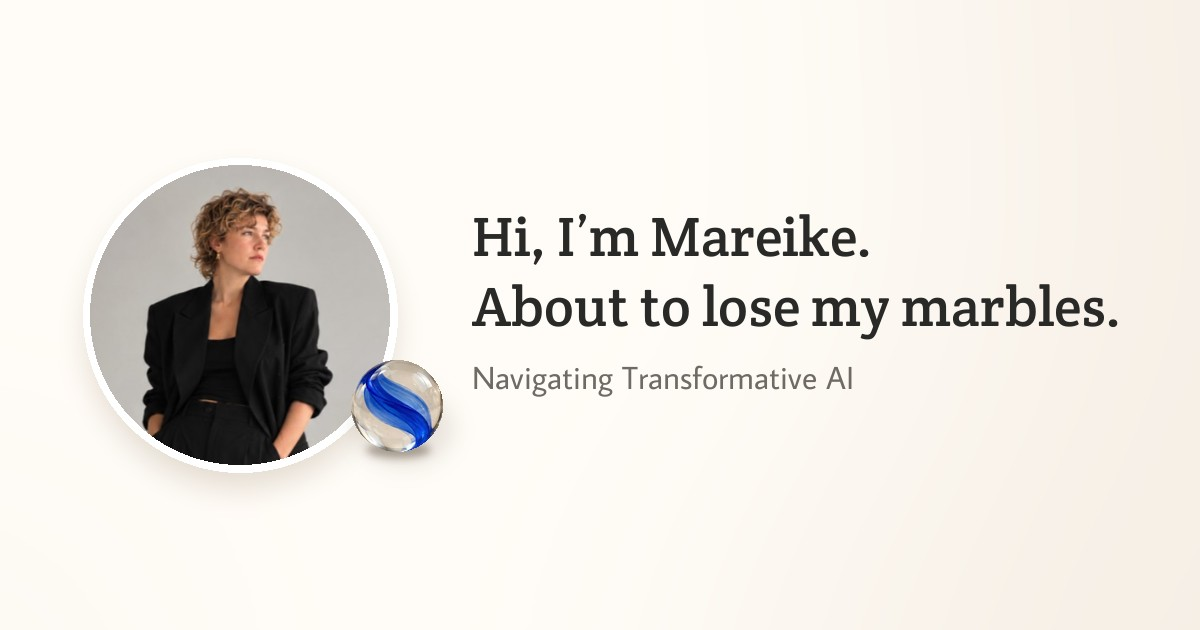
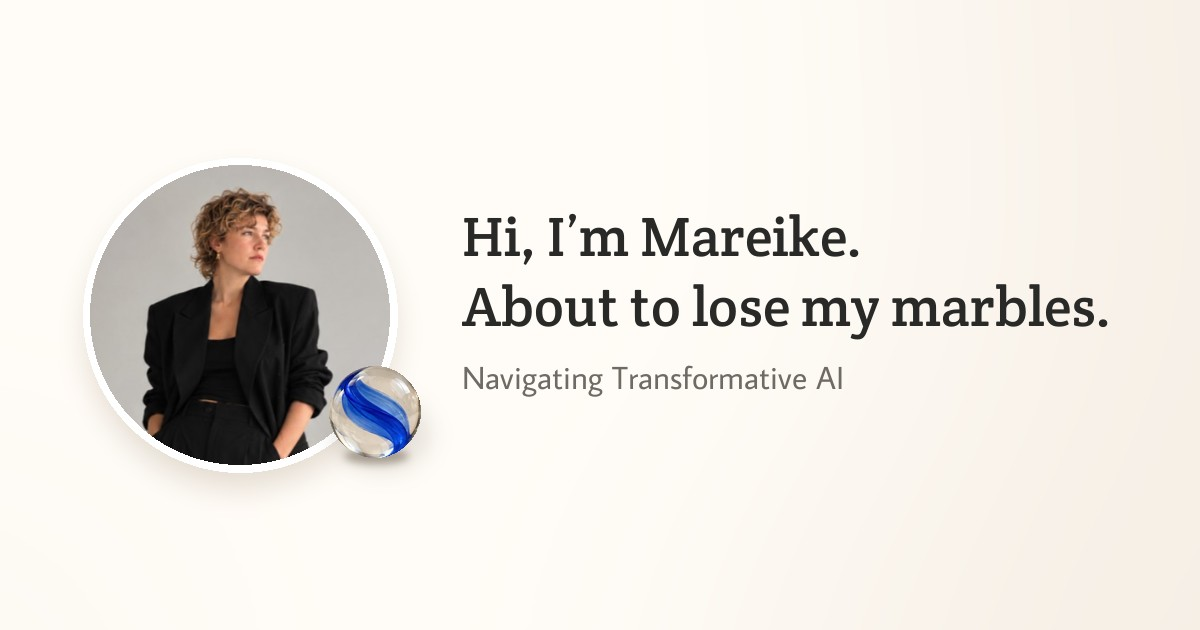
Link preview picture: marble overlaps the portrait more

Changed region(s): [[0.37, 0.4524, 0.925, 0.5429], [0.2775, 0.573, 0.7092, 0.754], [0.37, 0.3317, 0.74, 0.4222]]

diff --git a/index.html b/index.html
@@ -1,1 +1,1 @@
-<!doctype html><html lang="en"><head><meta charset="utf-8"><meta name="viewport" content="width=device-width, initial-scale=1"><meta name="theme-color" content="#faf8f5"><title>Mareike Jens · Navigating Transformative AI</title><meta name="description" content="About to lose my marbles. Pick the ideas you’d like to discuss with me over coffee."><meta property="og:type" content="website"><meta property="og:url" content="https://mareikejens.com/"><meta property="og:site_name" content="Mareike Jens"><meta property="og:title" content="Mareike Jens · Navigating Transformative AI"><meta property="og:description" content="About to lose my marbles. Pick the ideas you’d like to discuss with me over coffee."><meta property="og:image" content="https://mareikejens.com/assets/og-image.jpg?v=5"><meta property="og:image:width" content="1200"><meta property="og:image:height" content="630"><meta property="og:image:alt" content="Mareike Jens: Hi, I’m Mareike. About to lose my marbles."><meta name="twitter:card" content="summary_large_image"><meta name="twitter:image" content="https://mareikejens.com/assets/og-image.jpg?v=5"><link rel="icon" href="/favicon.ico"><link rel="apple-touch-icon" href="/apple-touch-icon.png"><link rel="stylesheet" href="style.css"><link rel="stylesheet" href="play.css"><script defer src="content.js"></script><script defer src="explosion.js"></script><script defer src="motion.js"></script><script defer src="vendor/matter.min.js"></script><script defer src="track.js"></script><script defer src="jar.js"></script><script defer src="play.js"></script><script defer src="app.js"></script></head><body class="cover"><header class="mast"><button class="face" type="button" data-about><img src="assets/mareike.jpg" alt="Mareike Jens"></button><button class="mast-title" type="button" data-about><span id="siteTitle"></span></button><nav class="mast-tools" id="mastTools"></nav></header><main id="app"></main><dialog id="sheet"><button class="x"></button><section id="detail"></section></dialog></body></html>
+<!doctype html><html lang="en"><head><meta charset="utf-8"><meta name="viewport" content="width=device-width, initial-scale=1"><meta name="theme-color" content="#faf8f5"><title>Mareike Jens · Navigating Transformative AI</title><meta name="description" content="About to lose my marbles. Pick the ideas you’d like to discuss with me over coffee."><meta property="og:type" content="website"><meta property="og:url" content="https://mareikejens.com/"><meta property="og:site_name" content="Mareike Jens"><meta property="og:title" content="Mareike Jens · Navigating Transformative AI"><meta property="og:description" content="About to lose my marbles. Pick the ideas you’d like to discuss with me over coffee."><meta property="og:image" content="https://mareikejens.com/assets/og-image.jpg?v=6"><meta property="og:image:width" content="1200"><meta property="og:image:height" content="630"><meta property="og:image:alt" content="Mareike Jens: Hi, I’m Mareike. About to lose my marbles."><meta name="twitter:card" content="summary_large_image"><meta name="twitter:image" content="https://mareikejens.com/assets/og-image.jpg?v=6"><link rel="icon" href="/favicon.ico"><link rel="apple-touch-icon" href="/apple-touch-icon.png"><link rel="stylesheet" href="style.css"><link rel="stylesheet" href="play.css"><script defer src="content.js"></script><script defer src="explosion.js"></script><script defer src="motion.js"></script><script defer src="vendor/matter.min.js"></script><script defer src="track.js"></script><script defer src="jar.js"></script><script defer src="play.js"></script><script defer src="app.js"></script></head><body class="cover"><header class="mast"><button class="face" type="button" data-about><img src="assets/mareike.jpg" alt="Mareike Jens"></button><button class="mast-title" type="button" data-about><span id="siteTitle"></span></button><nav class="mast-tools" id="mastTools"></nav></header><main id="app"></main><dialog id="sheet"><button class="x"></button><section id="detail"></section></dialog></body></html>
